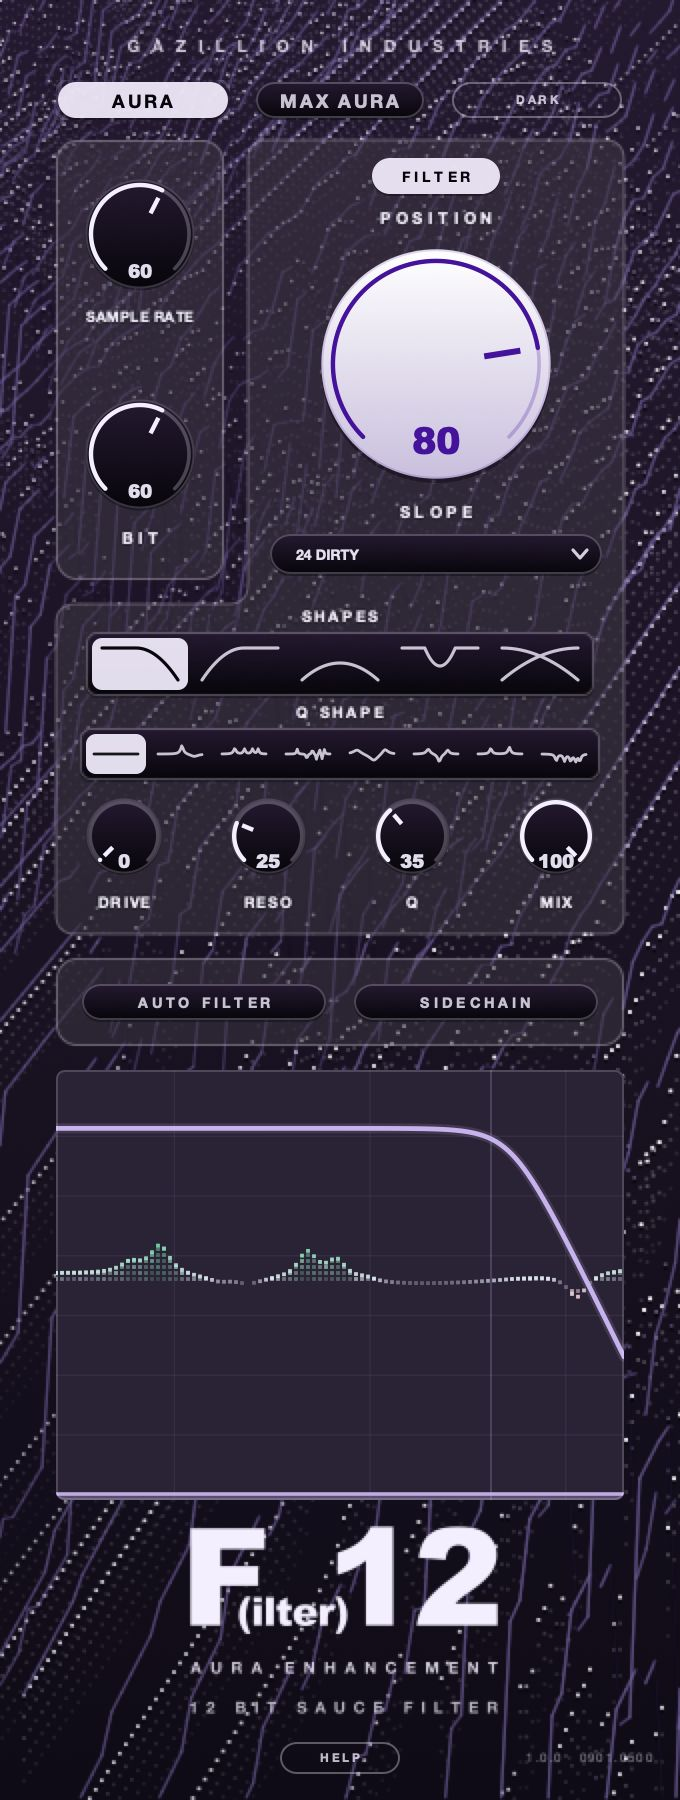
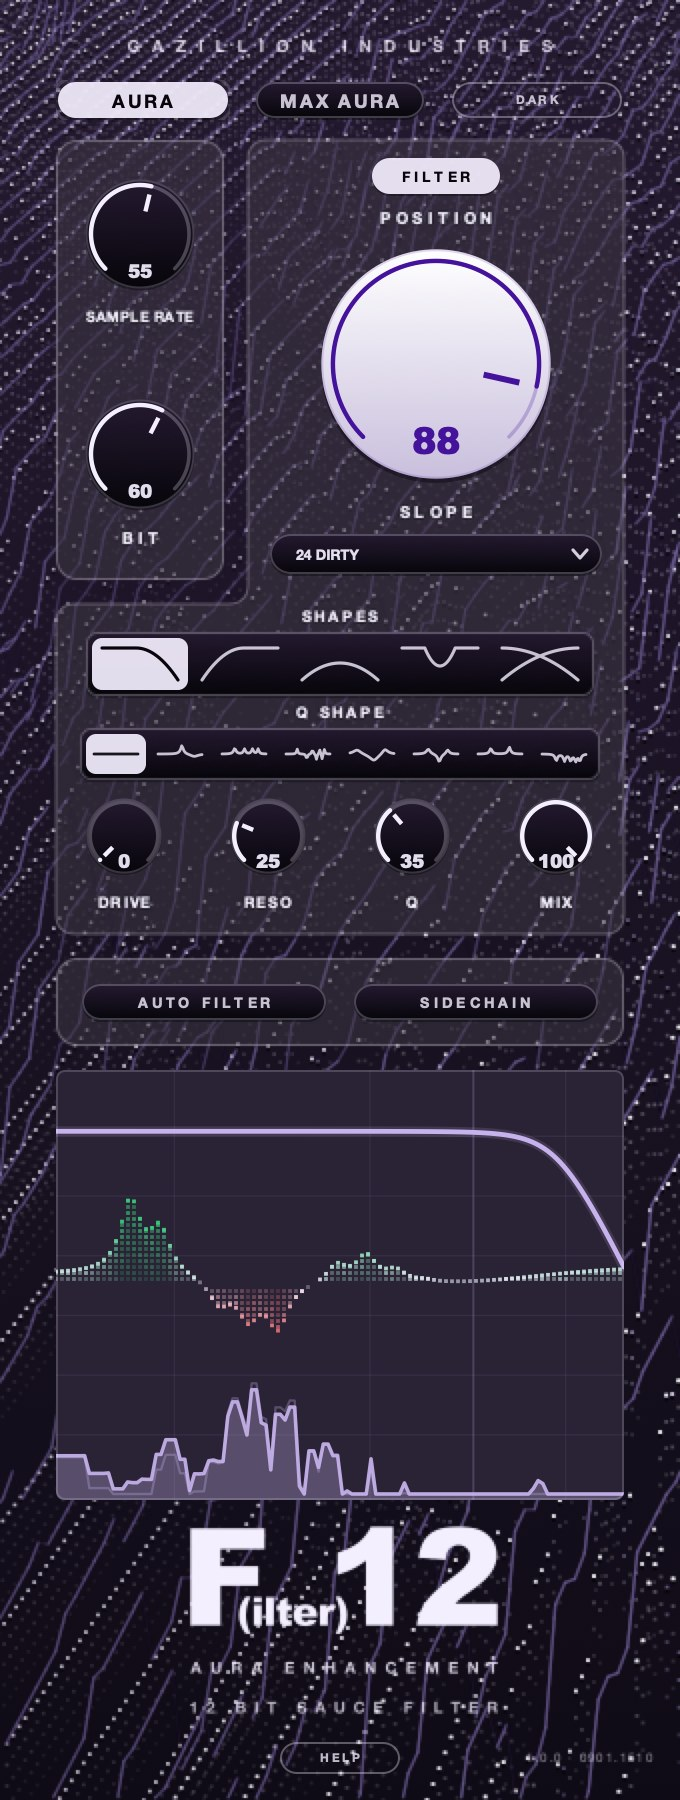
F12 page: panels shot with audio running, and a third slide for AURA off
The carousel was two stills taken on the synthetic test signal, where the
analyser had two narrow spikes near the floor and the aura field was empty - the
display looked switched off in both, which is the wrong thing for the one part of
this panel a buyer is looking at. Reshot with a real backing track through it.

Three slides now, because the switch is the pitch: AURA on, MAX AURA, AURA off.
The third is the A/B - same panel, stage off, display keeping the filter curve
and the spectrum while the aura field and the reactive background go still.

Slides sized down from 620/470 to 560/430. At the old height the panel took the
whole fold on a laptop and pushed the copy under it out of view.

diff --git a/f12.html b/f12.html
@@ -401,8 +401,10 @@ h1.mark-block{font-size:inherit}
    680x1800, and a portrait image in a fixed-height slot is sized by its height -
    so at 500 it came out 189px wide against the sibling's 258 and read as a
    thumbnail rather than the product. Height is the only lever that widens it. */
-.slide{height:620px}
-@media (max-width:560px){ .slide{height:470px} }
+/* Sized down from 620/470: the panel is 680x1800 and at the old height it
+   dominated the fold on a laptop, pushing the copy under it out of view. */
+.slide{height:560px}
+@media (max-width:560px){ .slide{height:430px} }
 
 /* ---- the mark's parenthetical ------------------------------------------- */
 /* The panel sets the name as F(ilter)12: a full-size F and 12 with the gloss
@@ -418,19 +420,32 @@ h1.mark-block{font-size:inherit}
 </div>
 
 <main>
-  <!-- Two slides, not three. The sibling leads with its demo video; there is no
-       F12 capture yet, and a slide holding an empty player is worse than one
-       fewer slide. When the video exists it goes in front of these two and the
-       player markup and script come across from the sibling unchanged. -->
+  <!-- Three slides: AURA on, MAX AURA, AURA off. The product's whole pitch is
+       what that switch does, so the carousel is the A/B - the first two show the
+       stage working and the third shows the same panel with it off, where the
+       display keeps the filter curve and the background goes inert. All shot
+       with a real backing track running, not the synthetic test signal: the
+       built-in kick/snare is a few sine partials, so the analyser drew two
+       narrow spikes near the floor and the aura field had nothing to have an
+       opinion about.
+
+       The sibling leads with its demo video; there is no F12 capture yet, and a
+       slide holding an empty player is worse than one fewer slide. When the
+       video exists it goes in front of these and the player markup and script
+       come across from the sibling unchanged. -->
   <div class="carousel">
     <div class="track" id="track">
       <div class="slide">
         <img src="f12/f12-dark.jpg" width="680" height="1800"
-             alt="The F(ilter)12 plug-in panel in its dark theme: SAMPLE RATE and BIT dials, a large filter POSITION dial reading 80, rows of filter and resonance shapes, and a display showing the filter curve over the AURA field.">
+             alt="The F(ilter)12 plug-in panel in its dark theme with AURA on: SAMPLE RATE and BIT dials, a large filter POSITION dial reading 88, rows of filter and resonance shapes, and a display showing the filter curve over the AURA field, green where the stage is adding and red where it is taking away.">
       </div>
       <div class="slide">
         <img src="f12/f12-light.jpg" width="680" height="1800"
-             alt="The F(ilter)12 panel in its light theme, showing the same controls on a bright violet field.">
+             alt="The F(ilter)12 panel in its light theme with MAX AURA engaged, showing the same controls on a bright violet field and a fuller AURA field in the display.">
+      </div>
+      <div class="slide">
+        <img src="f12/f12-off.jpg" width="680" height="1800" loading="lazy"
+             alt="The F(ilter)12 panel with AURA off: the display keeps the filter curve and the audio spectrum, the AURA field is gone, and the reactive background is still.">
       </div>
     </div>
     <button class="nav nav--prev" type="button" aria-label="Previous">&lsaquo;</button>

diff --git a/storefront.html b/storefront.html
@@ -90,7 +90,7 @@ img,svg{max-width:100%; display:block}
 .card--f12{--card-ground:var(--f12-ground); --card-accent:var(--f12-accent)}
 .card--drugs{--card-ground:var(--drugs-ground); --card-accent:var(--drugs-accent)}
 
-.card .panel{width:auto; height:min(46vh,340px); border-radius:10px;
+.card .panel{width:auto; height:min(42vh,300px); border-radius:10px;
               box-shadow:0 18px 44px -14px var(--shadow)}
 
 /* The marks are each plug-in's own outlines, dumped straight out of the panel
